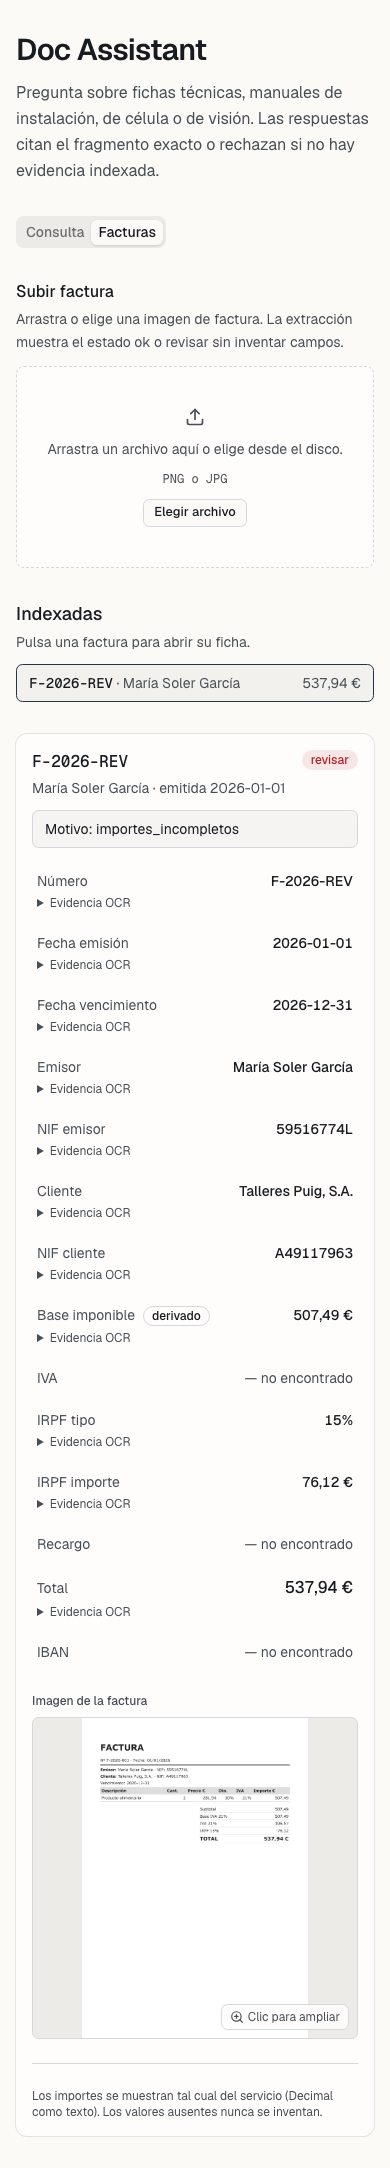
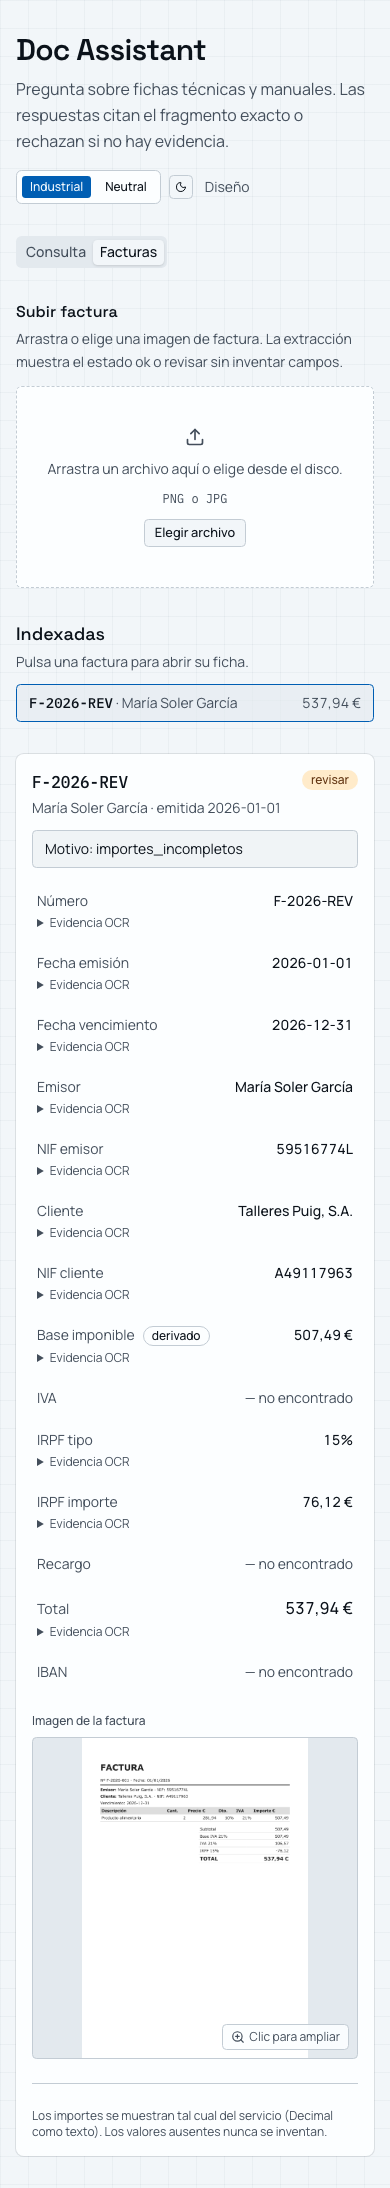
test(web): e2e de atajos, clipboard, temas y axe
Cubre cancelar, pegar PDF, swap de tema y 0 violaciones serias/críticas
en home y /design; regenera capturas desktop/móvil.

diff --git a/apps/web/e2e/theme-a11y.spec.ts b/apps/web/e2e/theme-a11y.spec.ts
@@ -1,0 +1,178 @@
+import path from "node:path"
+
+import AxeBuilder from "@axe-core/playwright"
+import { expect, test, type Page } from "@playwright/test"
+
+import { askAnswerWithCitation, DEMO_QUESTION, PAGE_PNG } from "./fixtures"
+
+const SCREENSHOT_DIR = path.join("..", "..", "evidence", "screenshots")
+
+async function stabilize(page: Page) {
+  await page.evaluate(() => document.fonts.ready)
+  await page.addStyleTag({
+    content: `
+      *, *::before, *::after {
+        animation: none !important;
+        transition: none !important;
+        caret-color: transparent !important;
+      }
+    `,
+  })
+}
+
+async function setTheme(page: Page, theme: "industrial" | "neutral", dark = false) {
+  await page.evaluate(
+    ([nextTheme, nextDark]) => {
+      localStorage.setItem("doc-assistant.theme", nextTheme)
+      localStorage.setItem("doc-assistant.mode", nextDark ? "dark" : "light")
+      document.documentElement.dataset.theme = nextTheme
+      document.documentElement.classList.toggle("dark", nextDark)
+    },
+    [theme, dark] as const
+  )
+}
+
+async function gotoThemed(
+  page: Page,
+  path: string,
+  theme: "industrial" | "neutral",
+  dark: boolean
+) {
+  await page.goto(path)
+  await setTheme(page, theme, dark)
+  await page.reload()
+  await expect(page.locator("html")).toHaveAttribute("data-theme", theme)
+  if (dark) {
+    await expect(page.locator("html")).toHaveClass(/dark/)
+  } else {
+    await expect(page.locator("html")).not.toHaveClass(/dark/)
+  }
+  await page.getByTestId(theme === "industrial" ? "theme-industrial" : "theme-neutral").click()
+  if (dark !== (await page.locator("html").evaluate((el) => el.classList.contains("dark")))) {
+    await page.getByTestId("mode-toggle").click()
+  }
+  await expect(page.locator("html")).toHaveAttribute("data-theme", theme)
+}
+
+async function mockAsk(page: Page) {
+  await page.route("**/api/ask", async (route) => {
+    await route.fulfill({
+      status: 200,
+      contentType: "application/json",
+      body: JSON.stringify(askAnswerWithCitation),
+    })
+  })
+  await page.route("**/api/sources/**/pages/**", async (route) => {
+    await route.fulfill({
+      status: 200,
+      contentType: "image/png",
+      body: PAGE_PNG,
+    })
+  })
+}
+
+test("swap de tema industrial ↔ neutral", async ({ page }) => {
+  await page.goto("/")
+  await expect(page.locator("html")).toHaveAttribute("data-theme", "industrial")
+  await page.getByTestId("theme-neutral").click()
+  await expect(page.locator("html")).toHaveAttribute("data-theme", "neutral")
+  await page.getByTestId("theme-industrial").click()
+  await expect(page.locator("html")).toHaveAttribute("data-theme", "industrial")
+  await page.getByTestId("mode-toggle").click()
+  await expect(page.locator("html")).toHaveClass(/dark/)
+})
+
+test.describe("axe a11y", () => {
+  for (const theme of ["industrial", "neutral"] as const) {
+    for (const dark of [false, true]) {
+      const label = `${theme}-${dark ? "dark" : "light"}`
+
+      test(`home sin violaciones serias (${label})`, async ({ page }) => {
+        await mockAsk(page)
+        await gotoThemed(page, "/", theme, dark)
+        await page.getByLabel("Pregunta").fill(DEMO_QUESTION)
+        await page.getByRole("button", { name: "Consultar" }).click()
+        await expect(page.getByTestId("answer-card")).toBeVisible()
+
+        const results = await new AxeBuilder({ page })
+          .withTags(["wcag2a", "wcag2aa"])
+          .analyze()
+        const serious = results.violations.filter(
+          (v) => v.impact === "serious" || v.impact === "critical"
+        )
+        expect(serious, JSON.stringify(serious, null, 2)).toEqual([])
+      })
+
+      test(`/design sin violaciones serias (${label})`, async ({ page }) => {
+        await gotoThemed(page, "/design", theme, dark)
+        await expect(page.getByTestId("design-page")).toBeVisible()
+        const results = await new AxeBuilder({ page })
+          .withTags(["wcag2a", "wcag2aa"])
+          .analyze()
+        const serious = results.violations.filter(
+          (v) => v.impact === "serious" || v.impact === "critical"
+        )
+        expect(serious, JSON.stringify(serious, null, 2)).toEqual([])
+      })
+    }
+  }
+})
+
+test.describe("capturas tema y design", () => {
+  for (const theme of ["industrial", "neutral"] as const) {
+    for (const viewport of [
+      { name: "desktop", size: { width: 1280, height: 800 } },
+      { name: "mobile", size: { width: 390, height: 844 } },
+    ] as const) {
+      test(`home ${theme} ${viewport.name}`, async ({ page }) => {
+        await mockAsk(page)
+        await page.setViewportSize(viewport.size)
+        await gotoThemed(page, "/", theme, false)
+        await stabilize(page)
+        await page.getByLabel("Pregunta").fill(DEMO_QUESTION)
+        await page.getByRole("button", { name: "Consultar" }).click()
+        await expect(page.getByTestId("answer-card")).toBeVisible()
+        const suffix = viewport.name === "mobile" ? "-mobile" : ""
+        await page.screenshot({
+          path: path.join(SCREENSHOT_DIR, `theme-${theme}${suffix}.png`),
+          fullPage: true,
+        })
+      })
+
+      test(`design ${theme} ${viewport.name}`, async ({ page }) => {
+        await page.setViewportSize(viewport.size)
+        await gotoThemed(page, "/design", theme, false)
+        await stabilize(page)
+        const suffix = viewport.name === "mobile" ? "-mobile" : ""
+        await page.screenshot({
+          path: path.join(SCREENSHOT_DIR, `design-${theme}${suffix}.png`),
+          fullPage: true,
+        })
+      })
+    }
+  }
+})
+
+test("CLS home bajo tras respuesta", async ({ page }) => {
+  await mockAsk(page)
+  await page.goto("/")
+  await page.evaluate(() => {
+    ;(window as unknown as { __cls: number }).__cls = 0
+    new PerformanceObserver((list) => {
+      for (const entry of list.getEntries()) {
+        const shift = entry as PerformanceEntry & { value: number; hadRecentInput: boolean }
+        if (!shift.hadRecentInput) {
+          ;(window as unknown as { __cls: number }).__cls += shift.value
+        }
+      }
+    }).observe({ type: "layout-shift", buffered: true })
+  })
+  await page.getByLabel("Pregunta").fill(DEMO_QUESTION)
+  await page.getByRole("button", { name: "Consultar" }).click()
+  await expect(page.getByTestId("answer-card")).toBeVisible()
+  await page.waitForTimeout(500)
+  const cls = await page.evaluate(
+    () => (window as unknown as { __cls: number }).__cls
+  )
+  expect(cls).toBeLessThan(0.1)
+})

diff --git a/apps/web/e2e/ux-chat.spec.ts b/apps/web/e2e/ux-chat.spec.ts
@@ -1,0 +1,186 @@
+import path from "node:path"
+import { readFileSync } from "node:fs"
+
+import { expect, test, type Page } from "@playwright/test"
+
+import {
+  DEMO_QUESTION,
+  askAnswerWithCitation,
+  askRefusal,
+  PAGE_PNG,
+} from "./fixtures"
+
+const FIXTURE_PDF = path.join(
+  "..",
+  "..",
+  "evidence",
+  "fixtures",
+  "docs",
+  "robot-demo.pdf"
+)
+
+async function mockAskOk(page: Page) {
+  await page.route("**/api/ask", async (route) => {
+    await route.fulfill({
+      status: 200,
+      contentType: "application/json",
+      body: JSON.stringify(askAnswerWithCitation),
+    })
+  })
+  await page.route("**/api/sources/**/pages/**", async (route) => {
+    await route.fulfill({
+      status: 200,
+      contentType: "image/png",
+      body: PAGE_PNG,
+    })
+  })
+}
+
+test.describe("chat UX", () => {
+  test.use({
+    permissions: ["clipboard-read", "clipboard-write"],
+  })
+
+  test("atajos: Enter envía, Cmd+K enfoca, ? abre ayuda", async ({
+    page,
+    context,
+  }) => {
+    await context.grantPermissions(["clipboard-read", "clipboard-write"])
+    await mockAskOk(page)
+    await page.goto("/")
+
+    const input = page.getByTestId("question-input")
+    await input.click()
+    await page.keyboard.press("Escape")
+    await page.keyboard.press("Meta+k")
+    await expect(input).toBeFocused()
+
+    await input.fill(DEMO_QUESTION)
+    await input.press("Enter")
+    await expect(page.getByTestId("answer-card")).toBeVisible()
+
+    await page.keyboard.press("Meta+/")
+    await expect(page.getByTestId("shortcuts-help")).toBeVisible()
+    await page.keyboard.press("Escape")
+    await expect(page.getByTestId("shortcuts-help")).toHaveCount(0)
+
+    await page.getByTestId("open-shortcuts").click()
+    await expect(page.getByTestId("shortcuts-help")).toBeVisible()
+  })
+
+  test("copiar respuesta y markdown con citas", async ({ page, context }) => {
+    await context.grantPermissions(["clipboard-read", "clipboard-write"])
+    await mockAskOk(page)
+    await page.goto("/")
+    await page.getByLabel("Pregunta").fill(DEMO_QUESTION)
+    await page.getByRole("button", { name: "Consultar" }).click()
+    await expect(page.getByTestId("answer-card")).toBeVisible()
+
+    await page.getByTestId("copy-answer").click()
+    await expect(
+      page.getByTestId("toast").filter({ hasText: "copiada" })
+    ).toBeVisible()
+    const answerText = await page.evaluate(() => navigator.clipboard.readText())
+    expect(answerText).toContain(askAnswerWithCitation.answer)
+
+    await page.getByTestId("copy-markdown").click()
+    await expect(
+      page.getByTestId("toast").filter({ hasText: "Markdown" })
+    ).toBeVisible()
+    const md = await page.evaluate(() => navigator.clipboard.readText())
+    expect(md).toContain("## Citas")
+    expect(md).toContain(askAnswerWithCitation.citations[0].quote)
+  })
+
+  test("cancelar consulta en curso", async ({ page }) => {
+    await page.route("**/api/ask", async (route) => {
+      await new Promise((resolve) => setTimeout(resolve, 30_000))
+      await route.fulfill({
+        status: 200,
+        contentType: "application/json",
+        body: JSON.stringify(askAnswerWithCitation),
+      })
+    })
+    await page.goto("/")
+    await page.getByLabel("Pregunta").fill(DEMO_QUESTION)
+    await page.getByRole("button", { name: "Consultar" }).click()
+    await expect(page.getByTestId("ask-loading")).toBeVisible()
+    await expect(page.getByTestId("cancel-ask")).toBeVisible()
+    await page.getByTestId("cancel-ask").click({ force: true })
+    await expect(page.getByTestId("ask-cancelled")).toBeVisible()
+    await expect(page.getByText("Consulta cancelada.")).toBeVisible()
+    await expect(page.getByRole("button", { name: "Consultar" })).toBeEnabled()
+  })
+
+  test("rechazo con diseño propio (no alert destructivo)", async ({ page }) => {
+    await page.route("**/api/ask", async (route) => {
+      await route.fulfill({
+        status: 200,
+        contentType: "application/json",
+        body: JSON.stringify(askRefusal),
+      })
+    })
+    await page.goto("/")
+    await page.getByLabel("Pregunta").fill("pregunta sin evidencia")
+    await page.getByRole("button", { name: "Consultar" }).click()
+    const refusal = page.getByTestId("refusal-notice")
+    await expect(refusal).toBeVisible()
+    await expect(refusal).not.toHaveAttribute("data-variant", "destructive")
+    await expect(page.getByTestId("ask-error-notice")).toHaveCount(0)
+  })
+
+  test("pegar PDF dispara subida a /documents", async ({ page }) => {
+    let uploaded = false
+    await page.route("**/api/documents", async (route) => {
+      if (route.request().method() === "POST") {
+        uploaded = true
+        await route.fulfill({
+          status: 200,
+          contentType: "application/json",
+          body: JSON.stringify({
+            doc_id: "demo-doc",
+            n_chunks: 3,
+            created: true,
+          }),
+        })
+        return
+      }
+      await route.fallback()
+    })
+    await page.goto("/")
+    const pdf = readFileSync(FIXTURE_PDF)
+    const input = page.getByTestId("question-input")
+    await input.focus()
+    await page.evaluate(async (bytes) => {
+      const file = new File([new Uint8Array(bytes)], "robot-demo.pdf", {
+        type: "application/pdf",
+      })
+      const dt = new DataTransfer()
+      dt.items.add(file)
+      const target = document.querySelector(
+        '[data-testid="question-input"]'
+      ) as HTMLTextAreaElement
+      target.dispatchEvent(
+        new ClipboardEvent("paste", {
+          clipboardData: dt,
+          bubbles: true,
+          cancelable: true,
+        })
+      )
+    }, Array.from(pdf))
+    await expect.poll(() => uploaded).toBe(true)
+    await expect(page.getByTestId("document-upload-result")).toBeVisible()
+  })
+
+  test("historial ↑ en input vacío", async ({ page }) => {
+    await mockAskOk(page)
+    await page.goto("/")
+    const input = page.getByTestId("question-input")
+    await input.fill("primera pregunta de historial")
+    await input.press("Enter")
+    await expect(page.getByTestId("answer-card")).toBeVisible()
+    await input.fill("")
+    await input.press("ArrowUp")
+    await expect(input).toHaveValue("primera pregunta de historial")
+  })
+})
